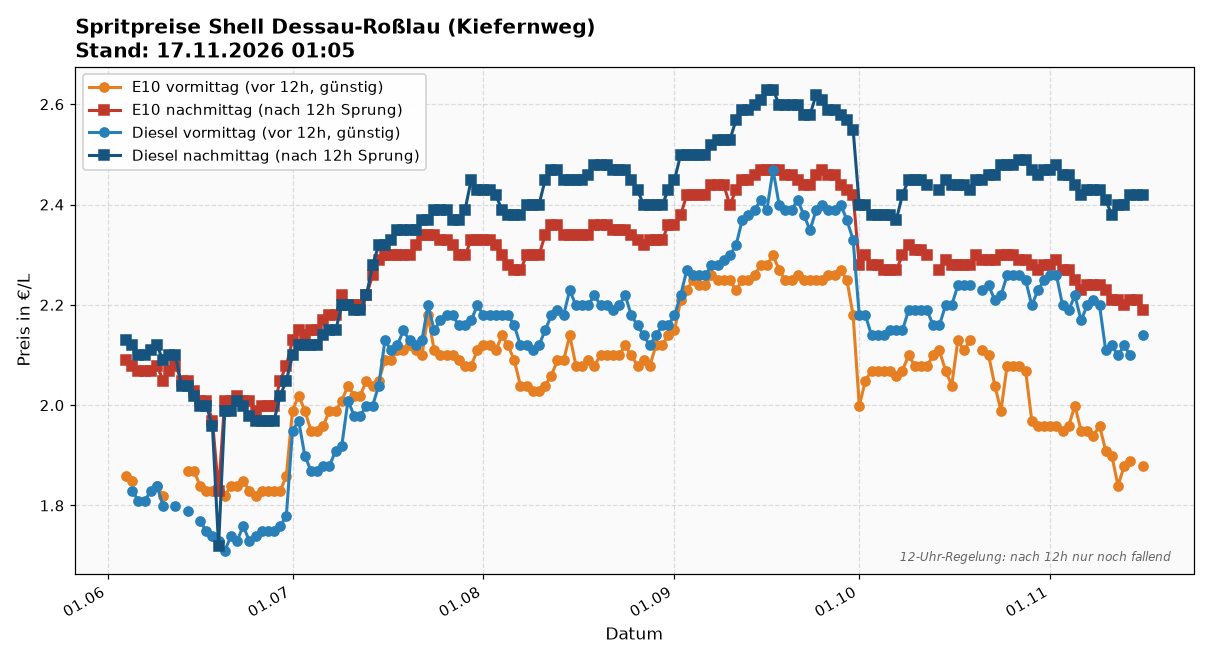
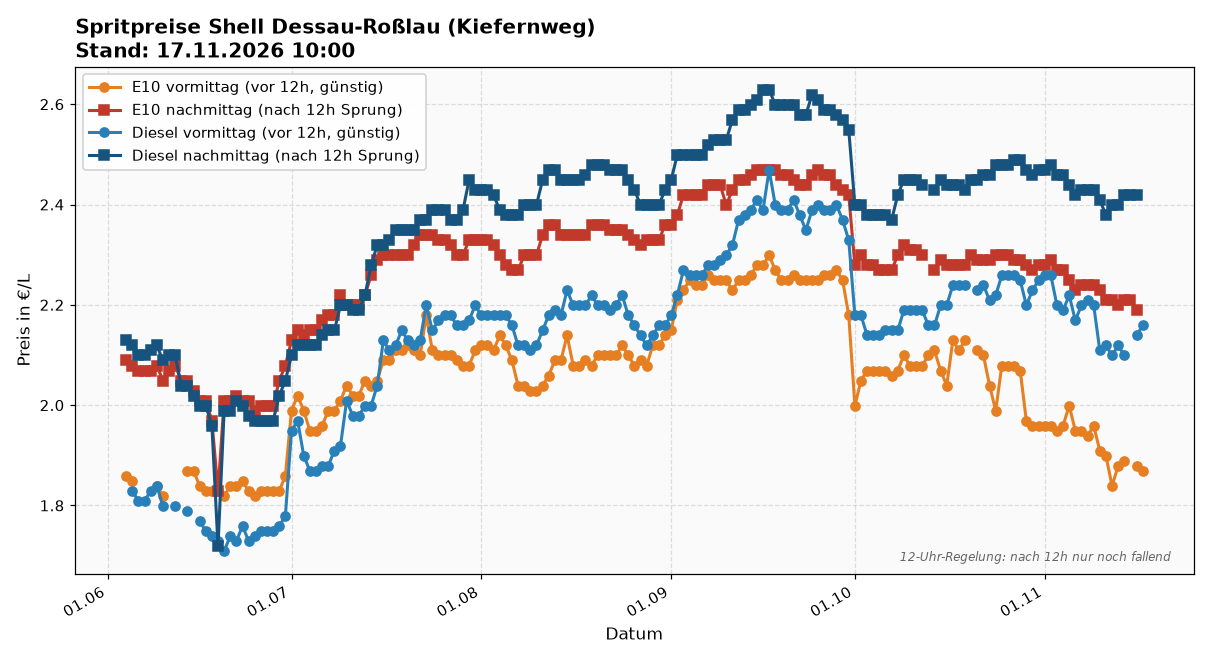
update: spritpreise 2026-11-17 10:00

diff --git a/index.html b/index.html
@@ -19,17 +19,17 @@
 </head>
 <body>
 <h1>🛢 Spritpreise Shell Dessau-Roßlau (Kiefernweg)</h1>
-<div class="sub">Source: Tankerkönig · Stand: 17.11.2026 01:05</div>
+<div class="sub">Source: Tankerkönig · Stand: 17.11.2026 10:00</div>
 
 <img src="latest.png" alt="Preisverlauf">
 
 <div class="latest">
   <strong>Heute (2026-11-17)</strong>
-  <div style="color:#888;font-style:italic;margin-bottom:0.5em;">Noch keine Messung heute — cron läuft 09:00 + 12:10.</div>
+  
   <table>
-    <tr><td>E10 vormittag</td><td class="price">— €</td></tr>
+    <tr><td>E10 vormittag</td><td class="price">1.869 €</td></tr>
     <tr><td>E10 nachmittag</td><td class="price">— €</td></tr>
-    <tr><td>Diesel vormittag</td><td class="price">— €</td></tr>
+    <tr><td>Diesel vormittag</td><td class="price">2.159 €</td></tr>
     <tr><td>Diesel nachmittag</td><td class="price">— €</td></tr>
   </table>
 </div>
